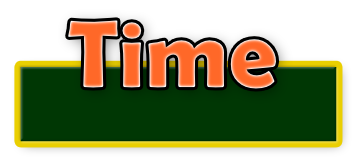
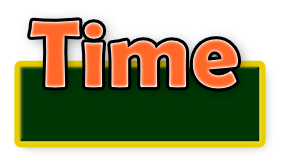
Added shaking effect when destroying. Added a TIME readout.

Changed region(s): [[0.0839, 0.0893, 0.8671, 0.5655], [0.8951, 0.3571, 0.951, 0.8929], [0.028, 0.3571, 0.0839, 0.8929]]

diff --git a/scripts/main.js b/scripts/main.js
@@ -1,5 +1,5 @@
 // scripts/main.js
-import {Application, Assets, Container} from 'pixi.js';
+import {Application, Assets, Text, Container, Sprite} from 'pixi.js';
 import {getCardPosition, shuffle, sleep} from "./utils.js";
 import {Card} from "./classes.js"
 
@@ -9,6 +9,8 @@ export let rootContainer;
 const cardNames = ["Hearts", "Spades", "Clubs", "Diamonds", "Back"];
 let app = undefined;
 let textures;
+let timePanel;
+let timeText;
 
 (async () => {
     await init();
@@ -39,10 +41,30 @@ async function loadGraphics(callback) {
             tex[name.toLowerCase()] = await Assets.load(`./assets/${name}.png`);
         }
         tex['TimePanel'] = await Assets.load(`./assets/TimePanel.png`);
+        timePanel = new Sprite(tex['TimePanel']);
+        timePanel.pivot.set(timePanel.width/2, timePanel.height/2);
+        timePanel.x = 1920-200; timePanel.y = 80;
+        rootContainer.addChild(timePanel);
+        initText();
         callback(tex);
+
     } catch (error) {
         console.error('Failed to load assets:', error);
     }
+}
+
+
+function initText() {
+    timeText = new Text('00:00', {
+        fontFamily: 'Arial',
+        fontSize: 45,
+        fontWeight:600,
+        fill: 0xffff00, // white color
+        align: 'center'
+    });
+    timeText.x = 1920-260;
+    timeText.y = 85;
+    rootContainer.addChild(timeText);
 }
 
 
@@ -62,13 +84,16 @@ async function onCardFlipped(card) {
     console.log("Flipped = "+flippedCards.length);
     if (flippedCards.length===2) {
         if (flippedCards[0].suit === flippedCards[1].suit) {
+            flippedCards[0].shake(1000);
+            flippedCards[1].shake(1000);
+            await sleep(1000);
             flippedCards[0].destroy();
             flippedCards[1].destroy();
             console.log("MATCHED!!");
             flippedCards = [];
             Card.flipCounter = 0;
         } else {
-            await sleep(500);
+            await sleep(600);
             cardsInPlay.forEach((c) => {
                 if (c.active)
                     c.unflip();
@@ -98,13 +123,14 @@ function selectCards() {
 
     for (let i = 0;i<16;i++) {
         let x = getCardPosition(SIZEX,180, i%8);
-        let y = i<8?250:550;
+        let y = i<8?350:650;
         //cardsInPlay[i].setPosition(1700-i,800-i);
         cardsInPlay[i].setPosition(x,y);
         cardsInPlay[i].cardIndex = i;
         //cardsInPlay[i].setTargetPosition(x,y);
     }
 }
+
 
 
 

diff --git a/scripts/classes.js b/scripts/classes.js
@@ -1,5 +1,6 @@
 import {Sprite} from "pixi.js";
 import {sleep} from "./utils";
+import {rootContainer} from "./main";
 
 export class Card {
     static flipCounter = 0;
@@ -83,10 +84,26 @@ export class Card {
     }
     async destroy() {
         this.active = false;
-        for (let sc = 1;sc>=0;sc-=0.1) {
+        for (let sc = 1;sc>=0;sc-=0.01) {
             this.setScale(sc, sc);
-            await sleep(1);
+            await sleep(5);
+            this.sprite.rotation+=0.1;
+            this.backSprite.rotation+=0.1;
         }
+        rootContainer.removeChild(this.sprite);
+        rootContainer.removeChild(this.backSprite);
+    }
+
+    async shake(millis) {
+        let targetTime = Date.now() + millis;
+        while (Date.now()<targetTime) {
+            let x = Math.floor(Math.random() * 17) - 8;
+            let y = Math.floor(Math.random() * 17) - 8;
+            this.sprite.pivot.set(this.sprite.width / 2 + x, this.sprite.height / 2 + y);
+            await sleep(1);
+            this.sprite.pivot.set(this.sprite.width / 2, this.sprite.height / 2);
+        }
+
     }
 
 }
